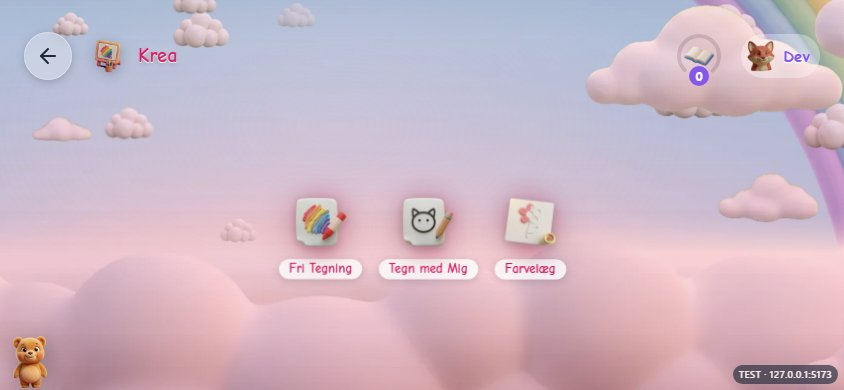
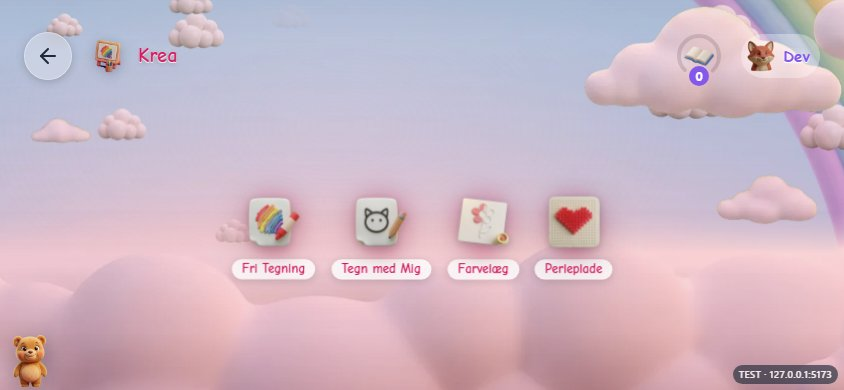
docs(krea): Perleplade W4 — games-krea.md section (5.0 KB, in budget), reference shots
The rule file gets the five things that would cause a mistake: one resolver
and one droppable board; the real-pointer ghost and the WebKit ancestor-
transform trap; the bounce/hint/no-finish-on-free rules; the per-level grid
guards; the 40/35 px pitch floors. Reference shots (iPad, phone, portrait):
the Krea menu with its 4th tile, the Perleplade grid, a pattern and a free
board.

diff --git a/.claude/rules/games-krea.md b/.claude/rules/games-krea.md
@@ -5,10 +5,10 @@ paths:
   - "scripts/krea-regions.mjs"
 ---
 
-# Krea — `krea.draw` (Fri Tegning) · `krea.guide` (Tegn med Mig) · `krea.color` (Farvelæg)
+# Krea — `krea.draw` (Fri Tegning) · `krea.guide` (Tegn med Mig) · `krea.color` (Farvelæg) · `krea.beads` (Perleplade)
 
 The 6th section, behind `kreaGate.ts` until the owner releases it. PRD + progress log:
-`plans/krea/tmp-prd-krea-01-section-and-drawing.md` §10 (Perleplade is PRD-02). Task-game rules
+`plans/krea/tmp-prd-krea-01-section-and-drawing.md` §10; Perleplade `tmp-prd-krea-02-perleplade.md` §10. Task-game rules
 (seam, timers, never-await) are in `game-development.md`; they apply here though its globs don't load.
 
 ## Rewards — the reason this section is shaped the way it is
@@ -49,6 +49,16 @@ The 6th section, behind `kreaGate.ts` until the owner releases it. PRD + progres
   an unchanged `width` prop (Farvelæg's fill canvas went 0×0 exactly so).
 - Alive presets are WAAPI one-shots on the PICTURE layer, transform/opacity, explicit identity end;
   reduced motion → `glow`.
+
+## Perleplade (`beads/`, `kreaBeads.ts`)
+- **One resolver**: drag and tap both land through the game's `resolve()`, the only `placeBead` call.
+  ONE droppable board + arithmetic pegs, never a droppable per peg. By hand: no tweezers (owner).
+- The dragged bead and its landing read the REAL pointer (0.45 pitch up on touch, 0 for a mouse), not
+  dnd-kit's delta; **no transform on a bowl's DraggableItem ancestor** (WebKit drift).
+- A wrong bead leaves the board unchanged and flies home; the 2nd miss on a peg glows the bowl. Free
+  board: no XP, no finish (like Fri Tegning). Patterns: one task on the done press, `popOff`, the seam.
+- Grids are per-level strings (10/13/16): derived legend counts ≤ 100, symmetric ones tested, no level
+  its predecessor resized. Pitch floor 40 px on the iPad, 35 at Svær (owner).
 
 ## Persistence & controls
 - **Session only** (`kreaSession`, sessionStorage per child × game × item; cleared on detach/reset). No

diff --git a/docs/ui-reference/README.md b/docs/ui-reference/README.md
@@ -8,6 +8,8 @@ folder always reflects the shipped UI.
   Nothing here predates it, so the per-build notes this file used to carry are gone.
 - **Krea** (`krea*.jpg`, added 2026-10-16) is gated by `kreaGate.ts` — visible on dev/staging only, so
   production users can't see what these show yet. `-guide-step`/`-color-page` deep-link with `?motiv=`.
+  Perleplade (`krea-beads*.jpg`, 2026-10-17, at Normal = 13×13): the grid, `-pattern` (`?motiv=hjerte`)
+  and `-free` (`?motiv=fri-hjerte`); `krea.jpg` re-shot with its 4th tile.
 - **Theme**: Regnbue (default — forced via `?theme=kid`). Other skins (Havet, Rummet, Junglen,
   Slikland, Dinosaurer) share the same layout; only tokens differ.
 - **Capture tool**: `.claude/skills/ui-screenshot/cdp.mjs` (headless Chrome). JPEG q85. The route
